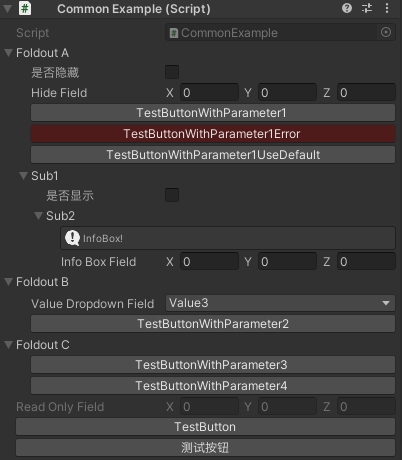
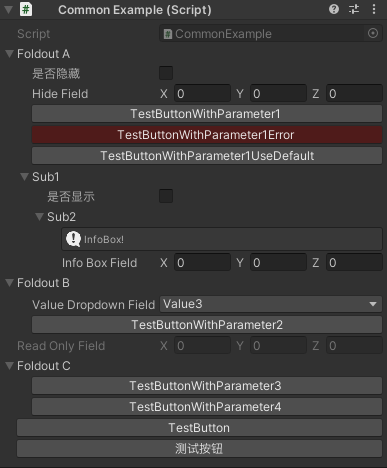
Change foldout draw order.

diff --git a/Core/Editor/FoldoutDrawer.cs b/Core/Editor/FoldoutDrawer.cs
@@ -17,16 +17,40 @@ namespace CustomizationInspector.Editor
             public readonly List<string> PropertiesPath;
             public readonly List<MethodInfo> MethodInfos;
             public readonly List<FoldoutInfo> Children;
-            public bool Expanded;
+            public readonly FoldoutInfo Parent;
+            public bool Expand;
 
-            public FoldoutInfo(string groupName, string showName, bool expanded)
+            public FoldoutInfo Root
+            {
+	            get
+	            {
+		            var root = this;
+		            while (root.Parent != null)
+			            root = root.Parent;
+		            return root;
+	            }
+            }
+            
+            public bool ExpandInInspector
+            {
+	            get
+	            {
+		            var foldoutInfo = this;
+		            while (foldoutInfo.Expand && foldoutInfo.Parent != null)
+			            foldoutInfo = foldoutInfo.Parent;
+		            return foldoutInfo.Expand;
+	            }
+            }
+
+            public FoldoutInfo(string groupName, string showName, bool expand, FoldoutInfo parent)
             {
                 GroupName = groupName;
                 ShowName = showName;
                 PropertiesPath = new List<string>();
                 MethodInfos = new List<MethodInfo>();
                 Children = new List<FoldoutInfo>();
-                Expanded = expanded;
+                Expand = expand;
+                Parent = parent;
             }
         }
 
@@ -35,16 +59,20 @@ namespace CustomizationInspector.Editor
         
         public DrawMethodEventHandler DrawMethod;
         
-        private HashSet<string> foldoutMembers;
-        private Dictionary<string, FoldoutInfo> foldoutCache;
+        private Dictionary<string, string> foldoutMembers; //key: memberName  value: root groupName
+        private Dictionary<string, FoldoutInfo> foldoutCache; //key: groupName  value: foldoutInfo
         private List<FoldoutInfo> foldoutRoots;
+        private HashSet<string> drawnFoldoutRoots;
+        private HashSet<string> drawnMembers;
 
         public FoldoutDrawer(SerializedObject serializedObject, Object[] targets) : base(serializedObject, targets)
         {
-	        foldoutMembers = new HashSet<string>();
+	        foldoutMembers = new Dictionary<string, string>();
 	        foldoutCache = new Dictionary<string, FoldoutInfo>();
 	        foldoutRoots = new List<FoldoutInfo>();
 	        Setup();
+	        drawnFoldoutRoots = new HashSet<string>(foldoutRoots.Count);
+	        drawnMembers = new HashSet<string>(foldoutMembers.Count);
         }
 
         public void SetDrawMethodHandler(DrawMethodEventHandler handler)
@@ -52,10 +80,44 @@ namespace CustomizationInspector.Editor
 	        DrawMethod = handler;
         }
         
+        /// <summary>
+        /// Draw all foldout
+        /// </summary>
         public override void Draw()
         {
+	        BeginManualDraw();
 	        foreach (var foldoutInfo in foldoutRoots)
-		        DrawFoldout(foldoutInfo, true);
+		        DrawFoldout(foldoutInfo);
+        }
+
+        /// <summary>
+        /// Call this method before call DrawFoldout and DrawRemainFoldout
+        /// </summary>
+        public void BeginManualDraw()
+        {
+	        drawnFoldoutRoots.Clear();
+	        drawnMembers.Clear();
+        }
+        
+        /// <summary>
+        /// Draw a foldout group. You can check is the serializedProperty drawn by call IsDrawn when you don not want draw duplication.
+        /// </summary>
+        /// <param name="serializedProperty"></param>
+        /// <returns>success</returns>
+        public bool DrawFoldout(SerializedProperty serializedProperty)
+        {
+	        if (!TryGetGroupName(serializedProperty, out var rootGroupName)
+	            || !TryGetFoldoutInfo(rootGroupName, out var foldoutInfo))
+		        return false;
+	        DrawFoldout(foldoutInfo);
+	        return true;
+        }
+        
+        public void DrawRemainFoldout()
+        {
+	        foreach (var foldoutInfo in foldoutRoots)
+		        if(!IsDrawn(foldoutInfo))
+			        DrawFoldout(foldoutInfo);
         }
         
         private void Setup()
@@ -71,7 +133,7 @@ namespace CustomizationInspector.Editor
 					if (foldoutAttribute == null) continue;
 					var foldoutInfo = GetOrCreateFoldoutInfo(foldoutAttribute.GroupName);
 					foldoutInfo.PropertiesPath.Add(iterator.propertyPath);
-					AddFoldoutMember(iterator);
+					AddFoldoutMember(iterator, foldoutInfo.Root.GroupName);
 				}
 				catch (Exception e)
 				{
@@ -96,7 +158,7 @@ namespace CustomizationInspector.Editor
 				
 				var foldoutInfo = GetOrCreateFoldoutInfo(foldoutAttribute.GroupName);
 				foldoutInfo.MethodInfos.Add(methodInfo);
-				AddFoldoutMember(methodInfo);
+				AddFoldoutMember(methodInfo, foldoutInfo.Root.GroupName);
 			}
 		}
 
@@ -113,14 +175,29 @@ namespace CustomizationInspector.Editor
 	        return foldoutInfo;
         }
 
+        private bool TryGetGroupName(SerializedProperty serializedProperty, out string rootGroupName)
+        {
+	        return foldoutMembers.TryGetValue(serializedProperty.propertyPath, out rootGroupName);
+        }
+        
+        private bool TryGetGroupName(MethodInfo methodInfo, out string rootGroupName)
+        {
+	        return foldoutMembers.TryGetValue(GetFoldoutMethodMemberKey(methodInfo), out rootGroupName);
+        }
+        
+        private bool TryGetGroupName(string memberName, out string rootGroupName)
+        {
+	        return foldoutMembers.TryGetValue(memberName, out rootGroupName);
+        }
+        
         private bool TryGetFoldoutInfo(string groupName, out FoldoutInfo foldoutInfo)
         {
 	        return foldoutCache.TryGetValue(groupName, out foldoutInfo);
         }
 
-        private FoldoutInfo CreateFoldoutInfo(string groupName, string showName)
+        private FoldoutInfo CreateFoldoutInfo(string groupName, string showName, FoldoutInfo parent)
         {
-	        FoldoutInfo foldoutInfo = new FoldoutInfo(groupName, showName, FieldInspector.LoadFoldoutExpand(FieldInspector.GetFoldoutSaveKey(groupName, target)));
+	        FoldoutInfo foldoutInfo = new FoldoutInfo(groupName, showName, FieldInspector.LoadFoldoutExpand(FieldInspector.GetFoldoutSaveKey(groupName, target)), parent);
 	        foldoutCache.Add(groupName, foldoutInfo);
 	        return foldoutInfo;
         }
@@ -140,7 +217,7 @@ namespace CustomizationInspector.Editor
 		        if (!TryGetFoldoutInfo(groupName, out var child))
 		        {
 			        create = true;
-			        child = CreateFoldoutInfo(groupName, names[i]);
+			        child = CreateFoldoutInfo(groupName, names[i], parent);
 		        }
 
 		        if (create)
@@ -154,57 +231,116 @@ namespace CustomizationInspector.Editor
 	        }
         }
 
-        private void DrawFoldout(FoldoutInfo foldoutInfo, bool parentExpand)
+        private void DrawFoldout(FoldoutInfo foldoutInfo)
         {
-	        if (!parentExpand) return;
-	        //Draw self
-	        foldoutInfo.Expanded = FieldInspector.DrawFoldout(foldoutInfo.Expanded, foldoutInfo.ShowName, target);
-	        EditorGUI.indentLevel++;
+	        //Add to drawn set
+	        if (foldoutInfo.Parent == null && !drawnFoldoutRoots.Contains(foldoutInfo.GroupName))
+		        drawnFoldoutRoots.Add(foldoutInfo.GroupName);
+	        
 	        foreach (var path in foldoutInfo.PropertiesPath)
-	        {
-		        if (foldoutInfo.Expanded)
-			        EditorGUILayout.PropertyField(serializedObject.FindProperty(path), true);
-	        }
-
+		        AddDrawnMember(path);
 	        if (DrawMethod != null)
 	        {
 		        foreach (var methodInfo in foldoutInfo.MethodInfos)
-		        {
-			        if (foldoutInfo.Expanded)
-				        DrawMethod(methodInfo, targets);
-		        }
+			        AddDrawnMember(methodInfo);
 	        }
+
+	        if (foldoutInfo.Parent == null || foldoutInfo.Parent.ExpandInInspector)
+	        {
+		        //Draw self
+		        foldoutInfo.Expand = FieldInspector.DrawFoldout(foldoutInfo.Expand, foldoutInfo.ShowName, target);
+	        }
+			//Do not draw when not expandInInspector
+			if (foldoutInfo.ExpandInInspector)
+			{
+				EditorGUI.indentLevel++;
+				foreach (var path in foldoutInfo.PropertiesPath)
+				{
+					if (foldoutInfo.Expand)
+						EditorGUILayout.PropertyField(serializedObject.FindProperty(path), true);
+				}
+
+				if (DrawMethod != null)
+				{
+					foreach (var methodInfo in foldoutInfo.MethodInfos)
+					{
+						if (foldoutInfo.Expand)
+							DrawMethod(methodInfo, targets);
+					}
+				}
+			}
+	        
 	        //Draw children
 	        foreach (var child in foldoutInfo.Children)
-		        DrawFoldout(child, foldoutInfo.Expanded);
-	        EditorGUI.indentLevel--;
+		        DrawFoldout(child);
+	        
+	        if (foldoutInfo.ExpandInInspector)
+		        EditorGUI.indentLevel--;
         }
 
-        private void AddFoldoutMember(SerializedProperty serializedProperty)
+        private void AddFoldoutMember(SerializedProperty serializedProperty, string rootGroupName)
         {
-	        foldoutMembers.Add(serializedProperty.propertyPath);
+	        foldoutMembers.Add(serializedProperty.propertyPath, rootGroupName);
         }
         
-        private void AddFoldoutMember(MethodInfo methodInfo)
+        private void AddFoldoutMember(MethodInfo methodInfo, string rootGroupName)
         {
-	        foldoutMembers.Add(GetFoldoutMethodMemberKey(methodInfo));
+	        foldoutMembers.Add(GetFoldoutMethodMemberKey(methodInfo), rootGroupName);
+        }
+
+        private void AddDrawnFoldoutRoot(FoldoutInfo foldoutInfo)
+        {
+	        var root = foldoutInfo.Root;
+	        if (!drawnFoldoutRoots.Contains(root.GroupName))
+		        drawnFoldoutRoots.Add(root.GroupName);
+        }
+        
+        private void AddDrawnMember(SerializedProperty serializedProperty)
+        {
+	        AddDrawnMember(serializedProperty.propertyPath);
+        }
+        
+        private void AddDrawnMember(MethodInfo methodInfo)
+        {
+	        AddDrawnMember(GetFoldoutMethodMemberKey(methodInfo));
+        }
+        
+        private void AddDrawnMember(string member)
+        {
+	        if (!drawnMembers.Contains(member))
+		        drawnMembers.Add(member);
         }
         
         public bool IsFoldout(SerializedProperty property)
         {
-	        return foldoutMembers.Contains(property.propertyPath);
+	        return foldoutMembers.ContainsKey(property.propertyPath);
         }
         
         public bool IsFoldout(MethodInfo methodInfo)
         {
-	        return foldoutMembers.Contains(GetFoldoutMethodMemberKey(methodInfo));
+	        return foldoutMembers.ContainsKey(GetFoldoutMethodMemberKey(methodInfo));
+        }
+
+        private bool IsDrawn(FoldoutInfo foldoutInfo)
+        {
+	        return drawnFoldoutRoots.Contains(foldoutInfo.Root.GroupName);
+        }
+        
+        public bool IsDrawn(SerializedProperty property)
+        {
+	        return drawnMembers.Contains(property.propertyPath);
+        }
+        
+        public bool IsDrawn(MethodInfo methodInfo)
+        {
+	        return drawnMembers.Contains(GetFoldoutMethodMemberKey(methodInfo));
         }
         
         public void SaveExpand()
         {
 	        foreach (var foldoutInfo in foldoutCache.Values)
 		        foreach (var obj in targets)
-			        FieldInspector.SaveFoldoutExpand(FieldInspector.GetFoldoutSaveKey(foldoutInfo.GroupName, obj), foldoutInfo.Expanded);
+			        FieldInspector.SaveFoldoutExpand(FieldInspector.GetFoldoutSaveKey(foldoutInfo.GroupName, obj), foldoutInfo.Expand);
         }
         
         private static string GetFoldoutMethodMemberKey(MethodInfo methodInfo)

diff --git a/Common/Editor/PropertyDrawers/PropertyDrawers.cs b/Common/Editor/PropertyDrawers/PropertyDrawers.cs
@@ -145,6 +145,8 @@ namespace CustomizationInspector.Editor
 	[CustomPropertyDrawer(typeof(ValueDropdownAttribute))]
 	internal class ValueDropdownDrawer : PropertyDrawer
 	{
+		protected const int ErrorBoxHeight = 24;
+		protected const int ErrorBoxSpace = 2;
 		protected BindingFlags mBindingFlags = BindingFlags.Instance | BindingFlags.NonPublic |
 				BindingFlags.Public | BindingFlags.Static;
 		protected static MemberTypes mMemberTypes = MemberTypes.Field | MemberTypes.Property | MemberTypes.Method;
@@ -159,7 +161,10 @@ namespace CustomizationInspector.Editor
 			IList targetValue = GetTargetList(property);
 			if (targetValue == null)
 			{
-				Debug.LogError(string.Format("{0}使用出错!", attribute.GetType().ToString()), target);
+				Rect errorBoxPosition = EditorGUI.IndentedRect(new Rect(position));
+				errorBoxPosition.height = ErrorBoxHeight;
+				EditorGUI.HelpBox(errorBoxPosition, string.Format("{0}使用出错!", attribute.GetType().Name), UnityEditor.MessageType.Error);
+				position.yMin += ErrorBoxHeight + ErrorBoxSpace;
 				EditorGUI.PropertyField(position, property, label, true);
 				return;
 			}
@@ -206,7 +211,7 @@ namespace CustomizationInspector.Editor
 		public override float GetPropertyHeight(SerializedProperty property, GUIContent label)
 		{
 			if (GetTargetList(property) == null)
-				return EditorGUI.GetPropertyHeight(property);
+				return EditorGUI.GetPropertyHeight(property) + ErrorBoxHeight + ErrorBoxSpace;
 			return EditorGUIUtility.singleLineHeight;
 		}
 

diff --git a/Core/Editor/CustomizationObjectEditor.cs b/Core/Editor/CustomizationObjectEditor.cs
@@ -29,24 +29,17 @@ namespace CustomizationInspector.Editor
 			serializedObject.UpdateIfRequiredOrScript();
 			SerializedProperty iterator = serializedObject.GetIterator();
 			
-			//m_Script property
-			bool moveNextSuccess = iterator.NextVisible(true);
-			if (moveNextSuccess)
-				using (new EditorGUI.DisabledScope(true))
-					EditorGUILayout.PropertyField(iterator, true);
-
-			//Foldout
-			foldoutDrawer.Draw();
-
-			//Remain property
-			if (moveNextSuccess)
+			foldoutDrawer.BeginManualDraw();
+			for (bool enterChildren = true; iterator.NextVisible(enterChildren); enterChildren = false)
 			{
-				while (iterator.NextVisible(false))
+				using (new EditorGUI.DisabledScope("m_Script" == iterator.propertyPath))
 				{
-					if (!foldoutDrawer.IsFoldout(iterator))
+					if (!foldoutDrawer.IsDrawn(iterator) && !foldoutDrawer.DrawFoldout(iterator))
 						EditorGUILayout.PropertyField(iterator, true);
 				}
 			}
+
+			foldoutDrawer.DrawRemainFoldout();
 
 			serializedObject.ApplyModifiedProperties();
 			EditorGUI.EndChangeCheck();
